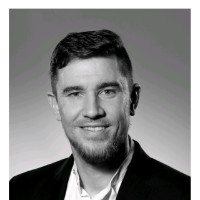
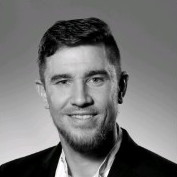
better personal page

diff --git a/layouts/team/single.html b/layouts/team/single.html
@@ -1,0 +1,88 @@
+{{ define "main" }}
+<main class="member-page">
+
+  <!-- Header -->
+  <div class="member-header">
+    {{ $img := .Params.image }}
+    {{ if $img }}
+      <img src="{{ $img }}" alt="{{ .Title }}" class="member-avatar">
+    {{ end }}
+
+    <div class="member-header-text">
+      <h1 class="member-name">{{ .Title }}</h1>
+      {{ with .Params.role }}
+        <div class="member-role">{{ . }}</div>
+      {{ end }}
+    </div>
+  </div>
+
+  <div class="member-content">
+    {{ .Content }}
+
+    <!-- Selected Publications -->
+    {{ $pubs := .Params.publications }}
+    {{ if $pubs }}
+       <!-- <h2>Selected Publications</h2>-->
+      <ul class="pub-list">
+        {{ range $pubs }}
+          {{ $p := site.GetPage (printf "project_manuscripts/%s" .) }}
+          {{ if $p }}
+            {{ $authors := delimit ($p.Params.author | default (slice)) ", " }}
+            {{ $year := "" }}
+            {{ with $p.Date }}{{ $year = .Format "2006" }}{{ end }}
+
+            <li>
+              {{ if $authors }}{{ $authors }}, {{ end }}
+              <em>{{ $p.Title }}</em>{{ if $year }}, {{ $year }}{{ end }}.
+              [<a href="{{ $p.RelPermalink }}">Project Page</a>]
+            </li>
+          {{ end }}
+        {{ end }}
+      </ul>
+    {{ end }}
+  </div>
+
+</main>
+
+<style>
+.member-page {
+  max-width: 900px;
+  margin: 0 auto;
+  padding: 1rem;
+}
+
+/* Header layout */
+.member-header {
+  display: grid;
+  grid-template-columns: 220px 1fr;
+  gap: 2rem;
+  align-items: center;
+  margin-bottom: 2.5rem;
+}
+
+.member-avatar {
+  width: 220px;
+  height: 220px;
+  border-radius: 50%;
+  object-fit: cover;
+}
+
+.member-name { margin: 0; }
+.member-role { margin-top: 0.5rem; font-size: 1.1rem; opacity: 0.85; }
+
+/* Content spacing */
+.member-content h2 {
+  margin-top: 2.5rem;
+  margin-bottom: 0.8rem;
+}
+
+.member-content ul {
+  padding-left: 1.5rem;
+  margin-bottom: 1.25rem;
+}
+
+.member-content li {
+  margin: 0.4rem 0;
+}
+</style>
+{{ end }}

diff --git a/content/team/members/LarsJohannsmeier.md b/content/team/members/LarsJohannsmeier.md
@@ -4,20 +4,38 @@ role = "PhD (now at NVIDIA)"
 role_group = "Almuni"
 image = "/images/team/LarsJohannsmeier.jpg"
 status = "alumni"
+publications = [
+    "WuWC0SJBAKH24",
+    "SchneiderWJWH24",
+    "RingwaldSCKJSH23",
+    "NaceriETSJVCMJB22",
+    "HaddadinPJGGWSJ22",
+    "ChenJSSDNWFH22",
+    "JohannsmeierH22",
+    "abs-2210-10015",
+    "ShahriariJJH20",
+    "VoigtJH20",
+    "HaddadinJL19",
+    "JohannsmeierGH19",
+    "GrischkeJEH19",
+    "KuehnRSJH19",
+    "ShahriariJH18",
+    "HaddadinJBSLHSE18",
+    "GrassmannJH18",
+    "HaddadinJ18",
+    "HaddadinJSEPHSL18",
+    "abs-1805-08576",
+    "JohannsmeierH17"
+]
 +++
 
 
-{{ with .Params.image }}
-<img src="{{ . }}" alt="{{ $.Title }}"
-     style="max-width:300px; border-radius:12px; margin-bottom:1rem;">
-{{ end }}
-
-### Thesis
+## Thesis
 
 Towards Autonomous Policy Synthesis: Tactile Manipulation Skills, Learning Architecture, and Process-Taxonomy-Based Planning
 
 
-### Biography
+## Biography
 
 I am a research scientist at the Seattle Robotics Lab. 
 I obtained my PhD from the Technical University Munich under the supervision of Prof. Sami Haddadin. 
@@ -26,8 +44,12 @@ My research at NVIDIA focuses on two main aspects.
 First, how to design intelligent robotic systems such that they are deployable in the real world. 
 Second, how to model manipulation such that robots can solve complex tasks with similar performance and robustness as humans.
 
-### Research Interests
+## Research Interests
 - Artificial Intelligence and Machine Learning
 - Robotics
 
-### Selected Publications
+
+## Selected Publications
+<!-- Selected Publications are autogenerated -->
+<!-- Keep ##Selected Publications !!! -->
+<!-- You can add your own selected paper right after this part !!! -->

diff --git a/content/team/SamiHaddadin.md b/content/team/SamiHaddadin.md
@@ -6,23 +6,18 @@ status = "active"
 +++
 
 
-{{ with .Params.image }}
-<img src="{{ . }}" alt="{{ $.Title }}"
-     style="max-width:300px; border-radius:12px; margin-bottom:1rem;">
-{{ end }}
-
-### Current Occupation
+## Current Occupation
 
 Mohamed bin Zayed University of Artificial Intelligence (MBZUAI), Abu Dhabi, UAE
 - Professor of Robotics and Vice President of Research
 - https://mbzuai.ac.ae/study/faculty/sami-haddadin/
 
 
-### Career
+## Career
 
 
-### Robotic Startups (Selection)
+## Robotic Startups (Selection)
 
-### Awards & Honors
+## Awards & Honors
 
-### Research Projects, Grants, Buildings & other Funding
+## Research Projects, Grants, Buildings & other Funding

diff --git a/content/team/members/AbdulazizYoussefAlkayas.md b/content/team/members/AbdulazizYoussefAlkayas.md
@@ -7,16 +7,14 @@ status = "active"
 +++
 
 
-{{ with .Params.image }}
-<img src="{{ . }}" alt="{{ $.Title }}"
-     style="max-width:300px; border-radius:12px; margin-bottom:1rem;">
-{{ end }}
-
-### Biography
+## Biography
 
 
-### Research Interests
+## Research Interests
 - Robotics
 
 
-### Selected Publications
+## Selected Publications
+<!-- Selected Publications are autogenerated -->
+<!-- Keep ##Selected Publications !!! -->
+<!-- You can add your own selected paper right after this part !!! -->

diff --git a/content/team/members/FlorianVoigt.md b/content/team/members/FlorianVoigt.md
@@ -7,16 +7,14 @@ status = "active"
 +++
 
 
-{{ with .Params.image }}
-<img src="{{ . }}" alt="{{ $.Title }}"
-     style="max-width:300px; border-radius:12px; margin-bottom:1rem;">
-{{ end }}
-
-### Biography
+## Biography
 
 
-### Research Interests
+## Research Interests
 - Robotics
 
 
-### Selected Publications
+## Selected Publications
+<!-- Selected Publications are autogenerated -->
+<!-- Keep ##Selected Publications !!! -->
+<!-- You can add your own selected paper right after this part !!! -->

diff --git a/content/team/members/LingyunChen.md b/content/team/members/LingyunChen.md
@@ -7,16 +7,14 @@ status = "active"
 +++
 
 
-{{ with .Params.image }}
-<img src="{{ . }}" alt="{{ $.Title }}"
-     style="max-width:300px; border-radius:12px; margin-bottom:1rem;">
-{{ end }}
-
-### Biography
+## Biography
 
 
-### Research Interests
+## Research Interests
 - Robotics
 
 
-### Selected Publications
+## Selected Publications
+<!-- Selected Publications are autogenerated -->
+<!-- Keep ##Selected Publications !!! -->
+<!-- You can add your own selected paper right after this part !!! -->

diff --git a/content/team/members/ReinhardGrassmann.md b/content/team/members/ReinhardGrassmann.md
@@ -7,16 +7,14 @@ status = "active"
 +++
 
 
-{{ with .Params.image }}
-<img src="{{ . }}" alt="{{ $.Title }}"
-     style="max-width:300px; border-radius:12px; margin-bottom:1rem;">
-{{ end }}
-
-### Biography
+## Biography
 
 
-### Research Interests
+## Research Interests
 - Robotics
 
 
-### Selected Publications
+## Selected Publications
+<!-- Selected Publications are autogenerated -->
+<!-- Keep ##Selected Publications !!! -->
+<!-- You can add your own selected paper right after this part !!! -->
